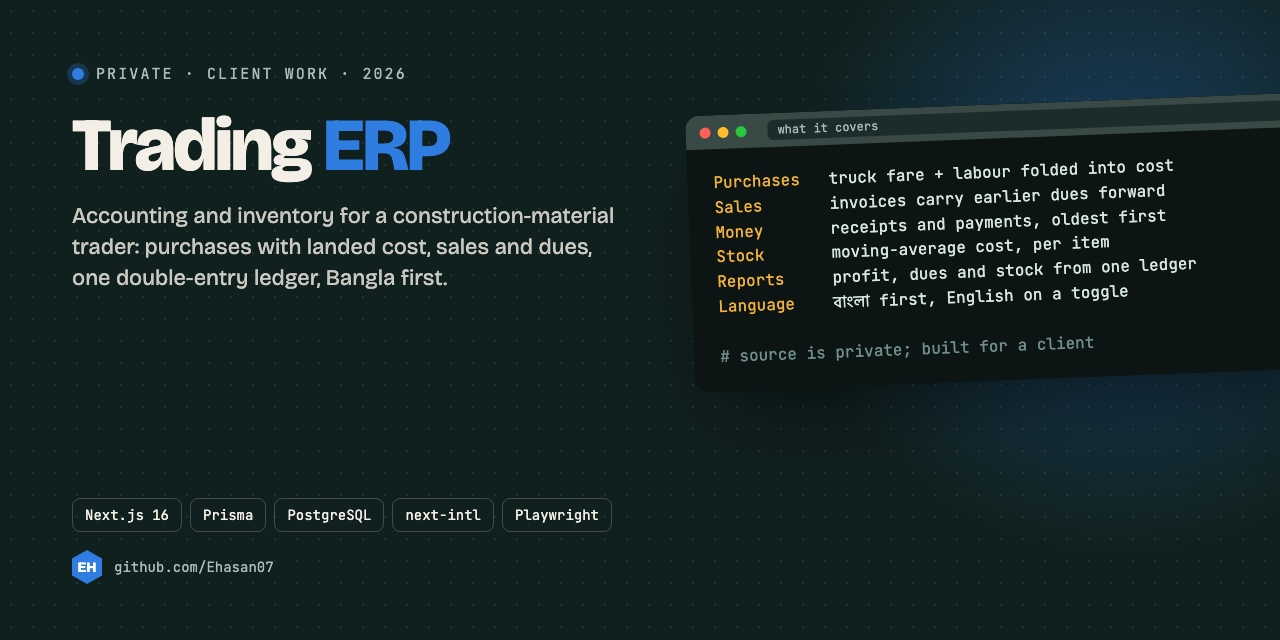
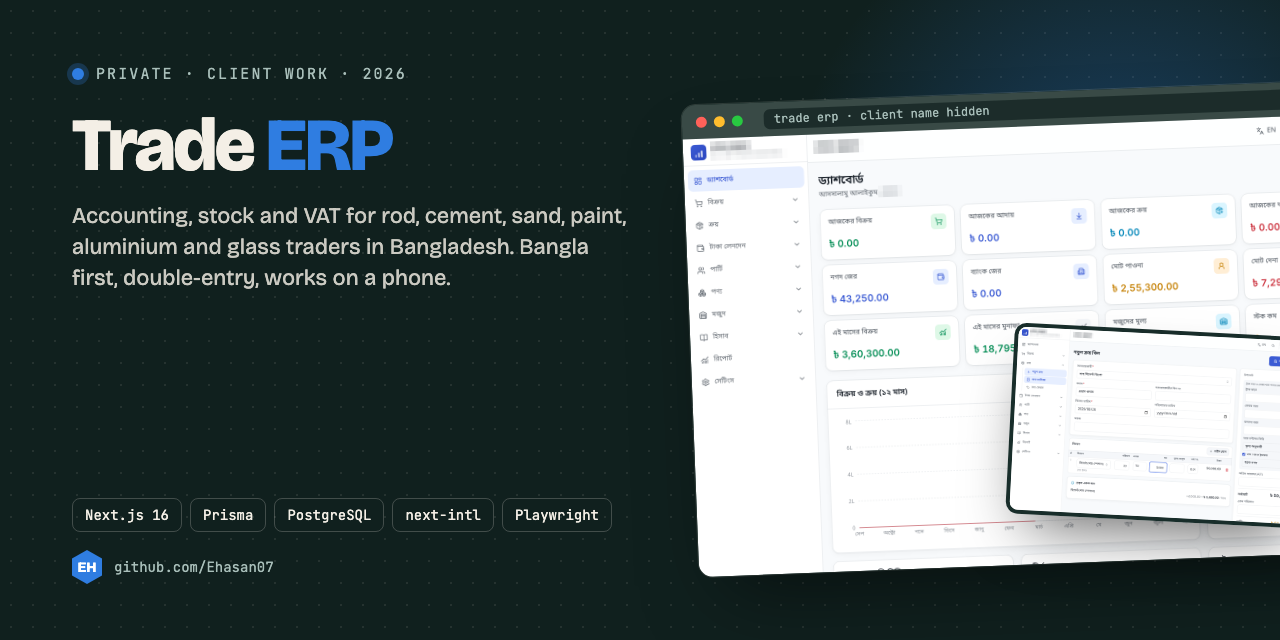
Put the Odoo work for DUPNO first, and show Trade ERP's screens

diff --git a/README.md b/README.md
@@ -4,7 +4,7 @@
 -->
 
 <p align="center">
-  <img src="assets/hero.png" alt="S M Ehasanul Haque — Bangla-first business software" width="100%">
+  <img src="assets/hero.png" alt="S M Ehasanul Haque — Odoo and full-stack developer, Dhaka" width="100%">
 </p>
 
 <p align="center">
@@ -15,18 +15,79 @@
 
 ## Hi, I'm Ehasan
 
-I'm a full-stack developer at **DUPNO** in Dhaka. Most of what I build is software for Bangladeshi businesses and families: a Hajj agency's whole office, a building-materials trader's books, a household's money, a digital business card.
+I'm an **Odoo and full-stack developer at DUPNO International** in Dhaka. At work I build Odoo 12 modules for the company's vehicle-tracking (VTS) operations — the fleet register, SIM recharge, voice campaigns, tracking certificates, equipment handover and the call-centre desk. Outside them I build Bangla-first SaaS: a Hajj agency platform, a personal finance app, a trading ERP and a digital business card.
 
 A few rules I hold to in every project:
 
 - **Bangla first**, English one tap away.
 - **Money is counted in paisa**, never in floating point — totals match to the last taka.
-- **Each customer's data is walled off in the database itself**, not only in the code.
+- **Never break the system next door**: an add-on must not slow down or block the module it sits on.
 - **It ships**: tested, deployed on a real server, with backups.
 
 <br>
 
-## Live products
+## Odoo modules at DUPNO
+
+<sub>Company work, so the source is private. Screens are from the modules themselves; customer data is blurred.</sub>
+
+<table>
+  <tr>
+    <td width="50%" valign="top">
+      <img src="assets/odoo-fleet.png" alt="VTS Fleet 2.0">
+      <br><b>VTS Fleet 2.0</b> — a 19,000-row Google Sheet behind a real register: every edit goes through approval, keeps an audit trail and is written back to its exact cell.
+      <br><sub>Python · Odoo ORM · Google Apps Script write-back API · cron retries</sub>
+    </td>
+    <td width="50%" valign="top">
+      <img src="assets/odoo-recharge.png" alt="Dupno Mobile Recharge">
+      <br><b>Mobile Recharge</b> — bulk top-ups for the SIMs inside GPS trackers: the operator is read from the number prefix, employees spend from wallets with limits, and the ledger is checked against the live balance.
+      <br><sub>SSL Wireless TopUp API · wallets · computed fields with search</sub>
+    </td>
+  </tr>
+  <tr>
+    <td width="50%" valign="top">
+      <img src="assets/odoo-voice.png" alt="VTS SMS Voice Clean">
+      <br><b>Voice SMS in Bengali</b> — a renewal reminder as a phone call: one rendered audio file per customer, uploaded to the voice server, dialled, then matched against the carrier's call records.
+      <br><sub>Google Cloud TTS · SSML · SFTP (paramiko) · queue API · CDR reconciliation</sub>
+    </td>
+    <td width="50%" valign="top">
+      <img src="assets/odoo-certificate.png" alt="Dupno GPS Certificate">
+      <br><b>GPS Certificate</b> — the BRTA / BTRC vehicle tracking certificate: type the IMEI and the rest fills itself; a Bengali PDF with a QR code that checks the live status.
+      <br><sub>QWeb PDF · Bengali typeface · QR verification endpoint · onchange</sub>
+    </td>
+  </tr>
+  <tr>
+    <td width="50%" valign="top">
+      <img src="assets/odoo-assets.png" alt="Smart Mobility Asset">
+      <br><b>Asset Handover</b> — who holds which tracker, tool or SIM pack: a handover counts only when both sides sign, open tasks block the close, and what isn't returned becomes a liability.
+      <br><sub>hr · mail · state workflows · record rules</sub>
+    </td>
+    <td width="50%" valign="top">
+      <img src="assets/odoo-desk.png" alt="VTS IPTSP Support Desk">
+      <br><b>Call Support Desk</b> — an editable mirror of the PBX call records for call-centre agents, with problem tags and vehicle links, written so it can never make the PBX lose a call.
+      <br><sub>Asterisk PBX · inherited create · non-blocking mirror · chatter</sub>
+    </td>
+  </tr>
+</table>
+
+<details>
+<summary><b>What I do in Odoo</b></summary>
+<br>
+
+| Area | In these modules |
+|---|---|
+| Models and ORM | New models, inheritance of existing ones, computed fields with `search`, onchange, constraints |
+| Views | Kanban, list, form and search views in XML; menus and actions per role |
+| Reports | QWeb PDF in Bengali with seals and QR codes |
+| Security | Groups, access rights, record rules, approval workflows with audit trails |
+| Automation | Scheduled actions (cron) for sync, retries, balance checks and reconciliation |
+| Integrations | Google Sheets / Apps Script, SSL Wireless, Google Cloud TTS, SFTP, Asterisk PBX, REST endpoints |
+
+<p><img src="assets/odoo-fleet-collection.png" alt="VTS Fleet 2.0 collection targets, data blurred" width="100%"></p>
+</details>
+
+<br>
+
+## Products I built
 
 <table>
   <tr>
@@ -43,21 +104,30 @@ A few rules I hold to in every project:
   </tr>
   <tr>
     <td width="50%" valign="top">
+      <img src="assets/erp.png" alt="Trade ERP">
+      <br><b>Trade ERP</b> — accounting, stock and VAT for rod, cement, sand, paint, aluminium and glass traders. Bangla first, double-entry, works on a phone.
+      <br><sub>Next.js · Prisma · PostgreSQL · private client work, client name hidden</sub>
+    </td>
+    <td width="50%" valign="top">
       <a href="https://mycard.dupno.com"><img src="assets/mycard.png" alt="MY-Card"></a>
       <br><b>MY-Card</b> — digital business cards: live builder, QR and wallet passes, bKash and SSLCommerz payments, analytics.
       <br><a href="https://mycard.dupno.com">Live</a> · <sub>Django · PostgreSQL · source private</sub>
     </td>
-    <td width="50%" valign="top">
-      <img src="assets/erp.png" alt="Trading ERP">
-      <br><b>Trading ERP</b> — accounting and inventory for a construction-material trader: landed cost, dues, one double-entry ledger.
-      <br><sub>Next.js · Prisma · PostgreSQL · private client work</sub>
-    </td>
   </tr>
 </table>
 
+<details>
+<summary><b>More from Trade ERP</b></summary>
+<br>
+<p>
+  <img src="assets/erp-stock.png" alt="Trade ERP stock summary" width="49%">
+  <img src="assets/erp-trial-balance.png" alt="Trade ERP trial balance" width="49%">
+</p>
+</details>
+
 <br>
 
-## Client work for DUPNO
+## Client web work for DUPNO
 
 <table>
   <tr>
@@ -134,31 +204,32 @@ A few rules I hold to in every project:
 | **Jan 2024** | [First repository](https://github.com/Ehasan07/my-frist-github-repo), [first portfolio](https://github.com/Ehasan07/web-developer-portfolio), and assignment 1: a [Figma design in HTML](https://github.com/Ehasan07/My-frist-assignment) |
 | **Jan – May 2024** | Assignments 2–6: [AMA Travel](https://github.com/Ehasan07/2nd-assignment-), [Hockey Club](https://github.com/Ehasan07/3rd-assignment), [JS problem solving](https://github.com/Ehasan07/4th-assignment), [P-Paribahan tickets](https://github.com/Ehasan07/5th-assignment), [Retro Forum](https://github.com/Ehasan07/6th-assignment) |
 | **2024** | First games and React: [Alpha Clash Pro](https://github.com/Ehasan07/Alphabate-game), [Tic-Tac-Toe](https://github.com/Ehasan07/tic-tac-toe-game), [React World Tour](https://github.com/Ehasan07/React-World-Tour) · first client pages for DUPNO |
+| **At DUPNO** | Odoo 12 modules for the VTS operations: fleet register, SIM recharge, Bengali voice campaigns, tracking certificates, asset handover, call-centre desk |
 | **2025** | Python, canvas experiments, the [Digital E-Card](https://github.com/Ehasan07/V-card), then **MY-Card**, a Django SaaS with payments |
-| **2026** | [ehasanlive.com](https://ehasanlive.com) rebuilt, **Taka Tracker**, a trading ERP, and **Hajj Tracking** — full SaaS products in TypeScript, live on my own servers |
+| **2026** | [ehasanlive.com](https://ehasanlive.com) rebuilt, **Taka Tracker**, **Trade ERP** and **Hajj Tracking** — full SaaS products in TypeScript, live on my own servers |
 
 <br>
 
 ## Tools I use
 
 <p>
+  <img src="https://img.shields.io/badge/Odoo%2012-714B67?style=flat-square&logo=odoo&logoColor=white" alt="Odoo 12">
+  <img src="https://img.shields.io/badge/Python-3776AB?style=flat-square&logo=python&logoColor=white" alt="Python">
+  <img src="https://img.shields.io/badge/QWeb%20%2F%20XML-875A7B?style=flat-square" alt="QWeb / XML">
+  <img src="https://img.shields.io/badge/Django-092E20?style=flat-square&logo=django&logoColor=white" alt="Django">
+  <img src="https://img.shields.io/badge/PostgreSQL-4169E1?style=flat-square&logo=postgresql&logoColor=white" alt="PostgreSQL">
+  <img src="https://img.shields.io/badge/Redis-DC382D?style=flat-square&logo=redis&logoColor=white" alt="Redis">
+</p>
+<p>
   <img src="https://img.shields.io/badge/TypeScript-3178C6?style=flat-square&logo=typescript&logoColor=white" alt="TypeScript">
   <img src="https://img.shields.io/badge/Next.js-000000?style=flat-square&logo=nextdotjs&logoColor=white" alt="Next.js">
   <img src="https://img.shields.io/badge/React-61DAFB?style=flat-square&logo=react&logoColor=black" alt="React">
   <img src="https://img.shields.io/badge/NestJS-E0234E?style=flat-square&logo=nestjs&logoColor=white" alt="NestJS">
   <img src="https://img.shields.io/badge/tRPC-2596BE?style=flat-square&logo=trpc&logoColor=white" alt="tRPC">
-  <img src="https://img.shields.io/badge/Tailwind-06B6D4?style=flat-square&logo=tailwindcss&logoColor=white" alt="Tailwind">
-  <img src="https://img.shields.io/badge/JavaScript-F7DF1E?style=flat-square&logo=javascript&logoColor=black" alt="JavaScript">
-  <img src="https://img.shields.io/badge/HTML5-E34F26?style=flat-square&logo=html5&logoColor=white" alt="HTML5">
-  <img src="https://img.shields.io/badge/CSS3-1572B6?style=flat-square&logo=css3&logoColor=white" alt="CSS3">
-</p>
-<p>
-  <img src="https://img.shields.io/badge/Python-3776AB?style=flat-square&logo=python&logoColor=white" alt="Python">
-  <img src="https://img.shields.io/badge/Django-092E20?style=flat-square&logo=django&logoColor=white" alt="Django">
-  <img src="https://img.shields.io/badge/PostgreSQL-4169E1?style=flat-square&logo=postgresql&logoColor=white" alt="PostgreSQL">
   <img src="https://img.shields.io/badge/Prisma-2D3748?style=flat-square&logo=prisma&logoColor=white" alt="Prisma">
   <img src="https://img.shields.io/badge/Drizzle-C5F74F?style=flat-square&logo=drizzle&logoColor=black" alt="Drizzle">
-  <img src="https://img.shields.io/badge/Redis-DC382D?style=flat-square&logo=redis&logoColor=white" alt="Redis">
+  <img src="https://img.shields.io/badge/Tailwind-06B6D4?style=flat-square&logo=tailwindcss&logoColor=white" alt="Tailwind">
+  <img src="https://img.shields.io/badge/JavaScript-F7DF1E?style=flat-square&logo=javascript&logoColor=black" alt="JavaScript">
 </p>
 <p>
   <img src="https://img.shields.io/badge/Linux-FCC624?style=flat-square&logo=linux&logoColor=black" alt="Linux">
@@ -166,6 +237,7 @@ A few rules I hold to in every project:
   <img src="https://img.shields.io/badge/Docker-2496ED?style=flat-square&logo=docker&logoColor=white" alt="Docker">
   <img src="https://img.shields.io/badge/Playwright-2EAD33?style=flat-square&logo=playwright&logoColor=white" alt="Playwright">
   <img src="https://img.shields.io/badge/Hetzner-D50C2D?style=flat-square&logo=hetzner&logoColor=white" alt="Hetzner">
+  <img src="https://img.shields.io/badge/Google%20Cloud-4285F4?style=flat-square&logo=googlecloud&logoColor=white" alt="Google Cloud">
   <img src="https://img.shields.io/badge/bKash-E2136E?style=flat-square" alt="bKash">
   <img src="https://img.shields.io/badge/SSLCommerz-1B4F8F?style=flat-square" alt="SSLCommerz">
 </p>
